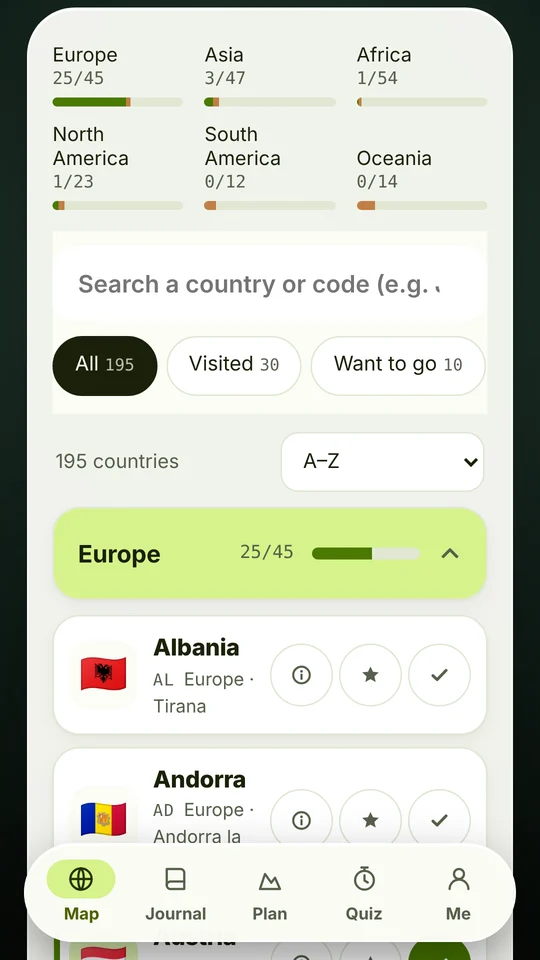
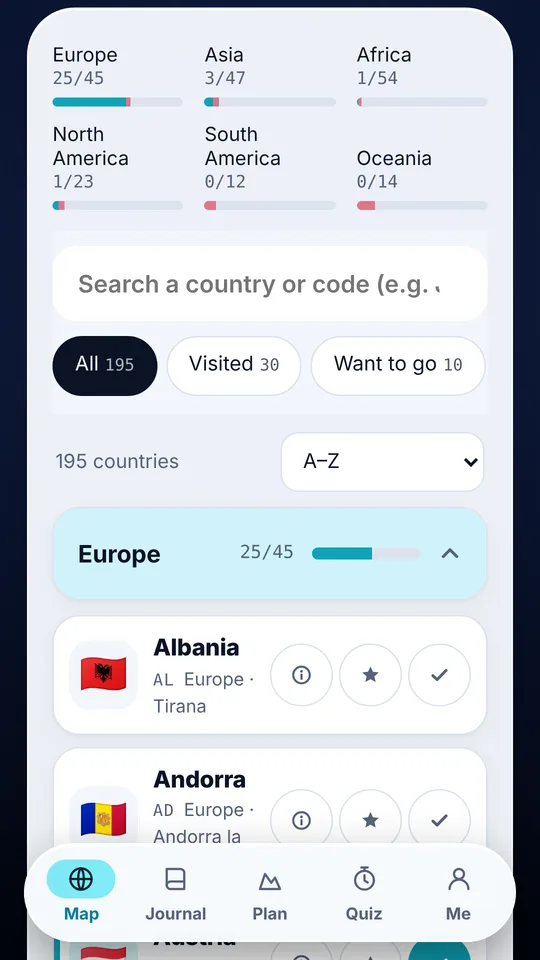
Promo stranica: paleta Orbita, satelitski globus, nove slike (kviz: Irska / Gvineja)
Claude-Session: https://claude.ai/code/session_01Kbzv2mo1YiKkorS74WhJuk

diff --git a/docs/index.html b/docs/index.html
@@ -5,7 +5,7 @@
 <meta name="viewport" content="width=device-width, initial-scale=1">
 <title>Atlas putovanja – tvoja mapa obiđenog sveta</title>
 <meta name="description" content="Označi države koje si obišao i one koje želiš da posetiš. Mapa i globus, dnevnik putovanja, plan, dostignuća i kviz. Android aplikacija u pripremi.">
-<meta name="theme-color" content="#12201A">
+<meta name="theme-color" content="#0A1430">
 <link rel="icon" href="img/icon-64.png">
 <link rel="apple-touch-icon" href="img/icon-192.png">
 <meta property="og:title" content="Atlas putovanja – tvoja mapa obiđenog sveta">
@@ -17,8 +17,8 @@
 <link rel="stylesheet" href="https://fonts.googleapis.com/css2?family=Bricolage+Grotesque:opsz,wght@12..96,700;12..96,800&family=Atkinson+Hyperlegible:wght@400;700&family=JetBrains+Mono:wght@500&display=swap">
 <style>
 :root{
-  --bg:#F4F6EC; --surface:#FFFFFF; --line:#DCE4C6; --ink:#1A2109; --muted:#56604A;
-  --accent:#4A6300; --been:#4A7A00; --been-soft:#E1F5B5; --want:#B45309; --want-soft:#FDEBD3; --ocean:#C9DFEA;
+  --bg:#F3F6FB; --surface:#FFFFFF; --line:#DCE3EE; --ink:#0B1324; --muted:#55627A;
+  --accent:#0B7C99; --been:#0FA3B8; --been-soft:#D6F5F8; --want:#E0475F; --want-soft:#FDE0E5; --ocean:#CFE3F5;
   --f-display:"Bricolage Grotesque","Segoe UI",system-ui,sans-serif;
   --f-body:"Atkinson Hyperlegible","Segoe UI",system-ui,sans-serif;
   --f-mono:"JetBrains Mono",ui-monospace,Menlo,Consolas,monospace;
@@ -57,7 +57,7 @@ h1 em{font-style:normal;color:var(--been)}
 .btn.soon svg{width:20px;height:20px}
 .btn.ghost{border:1.5px solid var(--line);background:var(--surface);color:var(--ink)}
 .small{font-size:14px;color:var(--muted);margin:16px 0 0}
-.phone{justify-self:center;width:min(300px,78vw);padding:10px;border-radius:38px;background:#12201A;box-shadow:0 30px 60px rgb(20 38 58 / .22);transform:rotate(2deg)}
+.phone{justify-self:center;width:min(300px,78vw);padding:10px;border-radius:38px;background:#0A1430;box-shadow:0 30px 60px rgb(10 20 48 / .25);transform:rotate(2deg)}
 .phone img{border-radius:28px;width:100%}
 @media (max-width:820px){.phone{transform:none}}
 
@@ -74,17 +74,17 @@ h2{font-family:var(--f-display);font-weight:800;font-size:clamp(28px,4.4vw,40px)
 .f{background:var(--surface);border:1px solid var(--line);border-radius:16px;padding:20px}
 .f .ic{width:42px;height:42px;border-radius:12px;display:grid;place-items:center;background:var(--been-soft);color:var(--been);margin-bottom:14px}
 .f:nth-child(3n+2) .ic{background:var(--want-soft);color:var(--want)}
-.f:nth-child(3n) .ic{background:#D6F28A;color:#253300}
+.f:nth-child(3n) .ic{background:#7FEAF5;color:#03252E}
 .f .ic svg{width:22px;height:22px}
 .f h3{font-family:var(--f-display);font-size:19px;margin:0 0 6px}
 .f p{margin:0;color:var(--muted);font-size:15.5px}
 
-.screens{background:radial-gradient(120% 80% at 50% 0%,#2C4A3A 0%,#12201A 60%,#070B08 100%);color:#F4F6EC}
-.screens .sub{color:#B9C7A8}
+.screens{background:radial-gradient(120% 80% at 50% 0%,#1B2E5C 0%,#0A1430 60%,#03060F 100%);color:#F3F6FB}
+.screens .sub{color:#A9B6CF}
 .strip{display:flex;gap:18px;overflow-x:auto;padding:6px 20px 18px;scroll-snap-type:x mandatory;max-width:calc(var(--max) + 40px);margin:0 auto}
 .strip figure{flex:0 0 min(250px,64vw);margin:0;scroll-snap-align:center}
 .strip img{border-radius:20px;border:1px solid rgb(255 255 255 / .25);width:100%}
-.strip figcaption{font-size:14px;color:#B9C7A8;margin-top:10px;text-align:center}
+.strip figcaption{font-size:14px;color:#A9B6CF;margin-top:10px;text-align:center}
 
 .faq{display:grid;gap:10px;max-width:760px}
 details{background:var(--surface);border:1px solid var(--line);border-radius:14px;padding:0 18px}
@@ -152,8 +152,8 @@ footer .wrap{display:flex;flex-wrap:wrap;justify-content:space-between;gap:12px}
         <p data-l="en">Mark any of the 195 countries with one tap, from the list or right on the map.</p></div>
       <div class="f"><div class="ic"><svg viewBox="0 0 24 24" fill="none" stroke="currentColor" stroke-width="2" stroke-linecap="round"><circle cx="12" cy="12" r="9"/><path d="M3 12h18M12 3c3 3.2 3 14.800 0 18M12 3c-3 3.200-3 14.800 0 18"/></svg></div>
         <h3 data-l="sr">Mapa i globus</h3><h3 data-l="en">Map and globe</h3>
-        <p data-l="sr">Ravna mapa ili globus koji okrećeš prstom, na nebu koje menja boju sa dobom dana.</p>
-        <p data-l="en">A flat map or a globe you spin with your finger, under a sky that changes with the time of day.</p></div>
+        <p data-l="sr">Ravna mapa ili satelitski globus koji okrećeš prstom, na nebu koje menja boju sa dobom dana.</p>
+        <p data-l="en">A flat map or a satellite globe you spin with your finger, under a sky that changes with the time of day.</p></div>
       <div class="f"><div class="ic"><svg viewBox="0 0 24 24" fill="none" stroke="currentColor" stroke-width="2" stroke-linecap="round" stroke-linejoin="round"><path d="M6 3h11a2 2 0 0 1 2 2v16l-4-2.500L11 21l-4-2.500V5"/><path d="M10 8h5M10 12h5"/></svg></div>
         <h3 data-l="sr">Dnevnik putovanja</h3><h3 data-l="en">Travel journal</h3>
         <p data-l="sr">Svako putovanje je pečat kao u pasošu: država, gradovi, godina i beleška, poređani po godinama.</p>
